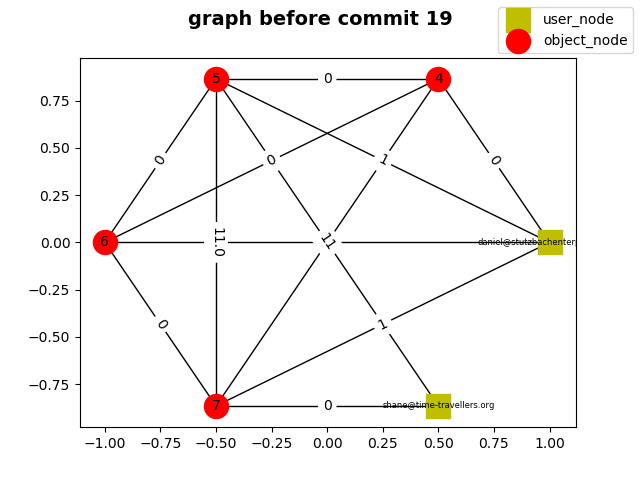
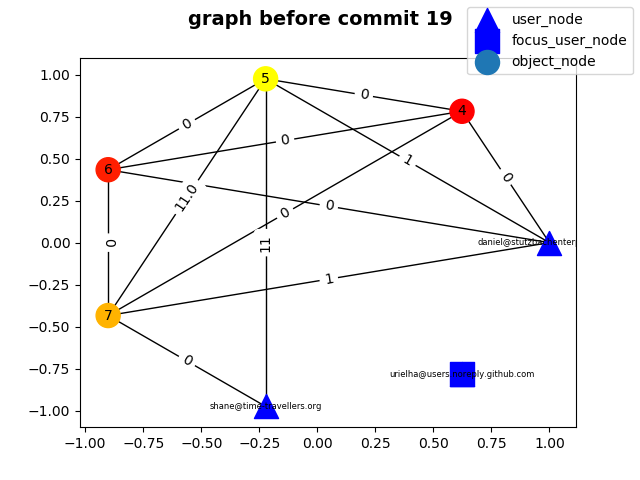
don't even...

diff --git a/src/MIP.py b/src/MIP.py
@@ -11,6 +11,7 @@ import math
 from DataModule.models import ChangeEnum
 from pyutils.my_sorted import MySorted
 import networkx as nx
+import matplotlib.pyplot as plt
 
 ACTIONS_THRESHOLD = 1800
 OBJECT_DECAY = 1.0
@@ -190,32 +191,49 @@ class Mip:
             else numOfChanges / float(self.iteration - fromRevision)
 
     def rankObjects(self, user):
-        tupledAos = ((self.nodeIDsToObjectsIds[ao], self.DegreeOfInterestMIPs(user, ao)) \
-                     for ao in self.getLiveAos())
-        return sorted(tupledAos, key=lambda x: x[1], reverse=True)
+        return sorted(self._getObjectsDOI(user).items(), key=lambda x: x[1], reverse=True)
+        # return sorted(((self.nodeIDsToObjectsIds[x[0]],x[1]) for x in self._getObjectNodes(user)),
+        #     key=lambda x: x[1], reverse=True)
 
     def rankChanged(self, user, time=-1):
         if user in self.users and time == -1:
             time = self.mip.nodes[self.users[user]]['last_visit']
         return filter(lambda ao: self.mip.nodes[ao[0]]['revisions'][-1] > time, self.rankObjects(user))
 
-    def drawMip(self):
-        userNcolor = 'y'
-        userNshape = 's'
-        objNcolor = 'r'
+    def _getObjectsDOI(self, user):
+        return {ao : self.DegreeOfInterestMIPs(user, ao) for ao in self.getLiveAos()}
+        #return ((ao, self.DegreeOfInterestMIPs(user, ao)) for ao in self.getLiveAos())
+
+    def drawMip(self, user_focus):
+        """
+        node size represent it's (weighted) rank
+        node color reprent it's proximity
+        """
+        userNcolor = 'b'
+        userNshape = '^'
+        focususerNshape = 's'
+        objNcmap = plt.cm.get_cmap("autumn")
+        #objFull = self._getObjectsDOI(user_focus)
+        #objN, objNcolor = zip(*objFull.items())
+        objN, objNcolor = zip(*self._getObjectsDOI(user_focus).items())
         objNshape = 'o'
         userLsize = 6
         objLsize = 10
+        user_node = self._addUser(user_focus)
+
         layout = nx.circular_layout(self.mip)  # pick graph layout
         nx.draw_networkx_nodes(self.mip, pos=layout, nodelist=self.nodeIDsToUsersIds.keys(),
             node_color=userNcolor, node_shape=userNshape, label='user_node')
-        nx.draw_networkx_nodes(self.mip, pos=layout, nodelist=self.nodeIDsToObjectsIds.keys(),
-            node_color=objNcolor, node_shape=objNshape, label='object_node')
+        nx.draw_networkx_nodes(self.mip, pos=layout, nodelist=[user_node],
+            node_color=userNcolor, node_shape=focususerNshape, label='focus_user_node')
+        nx.draw_networkx_nodes(self.mip, pos=layout, nodelist=objN,
+            node_color=objNcolor, node_shape=objNshape, cmap=objNcmap, label='object_node')
         nx.draw_networkx_labels(self.mip, layout, labels=self.nodeIDsToUsersIds, font_size=userLsize)
         nx.draw_networkx_labels(self.mip, layout, labels=self.nodeIDsToObjectsIds, font_size=objLsize)
+        #nx.draw_networkx_labels(self.mip, layout, labels=objFull, font_size=objLsize)
         labels = {(edge[0], edge[1]): edge[2]['weight'] for edge in self.mip.edges(data=True)}
         nx.draw_networkx_edges(self.mip, pos=layout)
-        nx.draw_networkx_edge_labels(self.mip, pos=layout, edge_labels=labels, label='edge_weight')
+        nx.draw_networkx_edge_labels(self.mip, pos=layout, edge_labels=labels)
 
     def __str__(self):
         return f"MIP_{self.alpha}_{self.beta}_{self.gamma}_{self.userDecay}_{self.objectDecay}"

diff --git a/src/Mocks/initialize.py b/src/Mocks/initialize.py
@@ -20,12 +20,13 @@ if __name__ == "__main__":
         mip.updateMIP(csr.commit_to_session(commit))
 
     for j, commit in enumerate(p.Y, i):
-        plt.figure(clear=True)
-        mip.drawMip()
-        plt.suptitle(f"graph before commit {j}", fontsize=14, fontweight='bold')
 
         session = csr.commit_to_session(commit)
         objects = session.get_session_objects(ChangeEnum.MODIFIED)
+
+        plt.figure(clear=True)
+        mip.drawMip(session.user)
+        plt.suptitle(f"graph before commit {j}", fontsize=14, fontweight='bold')
 
         pred_hits = []
         score = 0.0
@@ -42,6 +43,10 @@ if __name__ == "__main__":
         top_10 = sum(pred_hits[:10]) if len(pred_hits) >= 10 else -1
         top_5 = sum(pred_hits[:5]) if len(pred_hits) >= 5 else -1
         top_3 = sum(pred_hits[:3]) if len(pred_hits) >= 3 else -1
+
+
+
+
         plt.figlegend()
         plt.savefig(path.join(result_folder, str(j)))
         mip.updateMIP(session)
